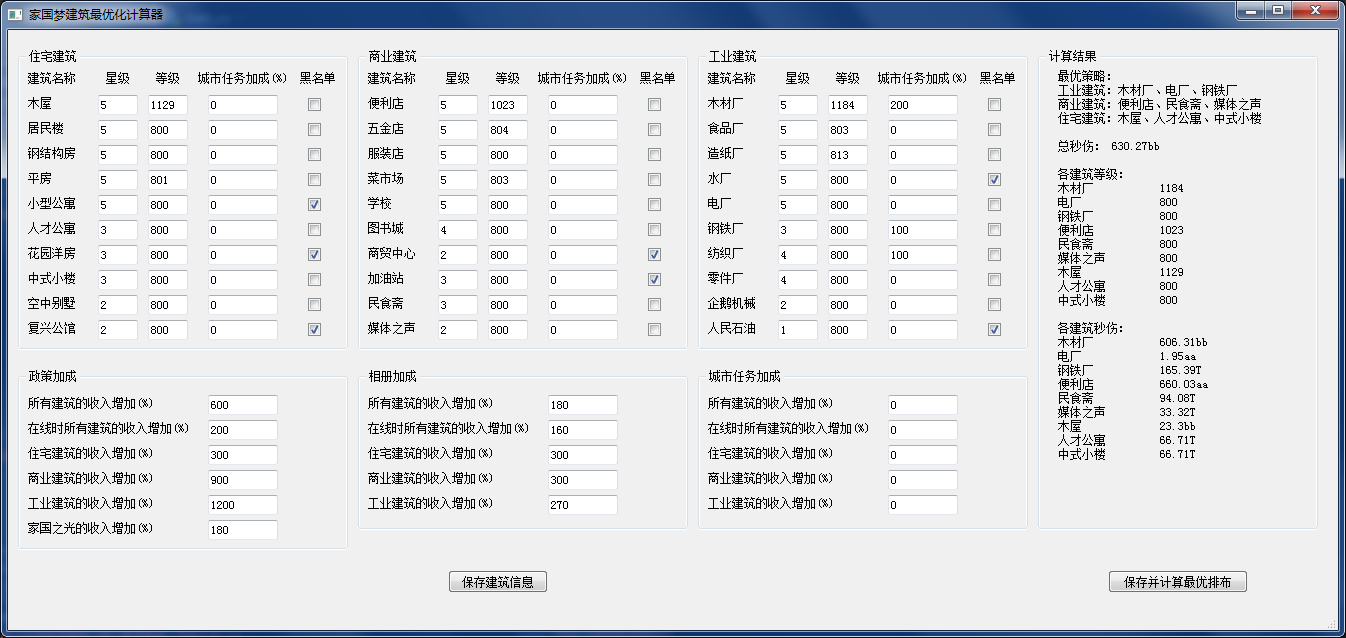
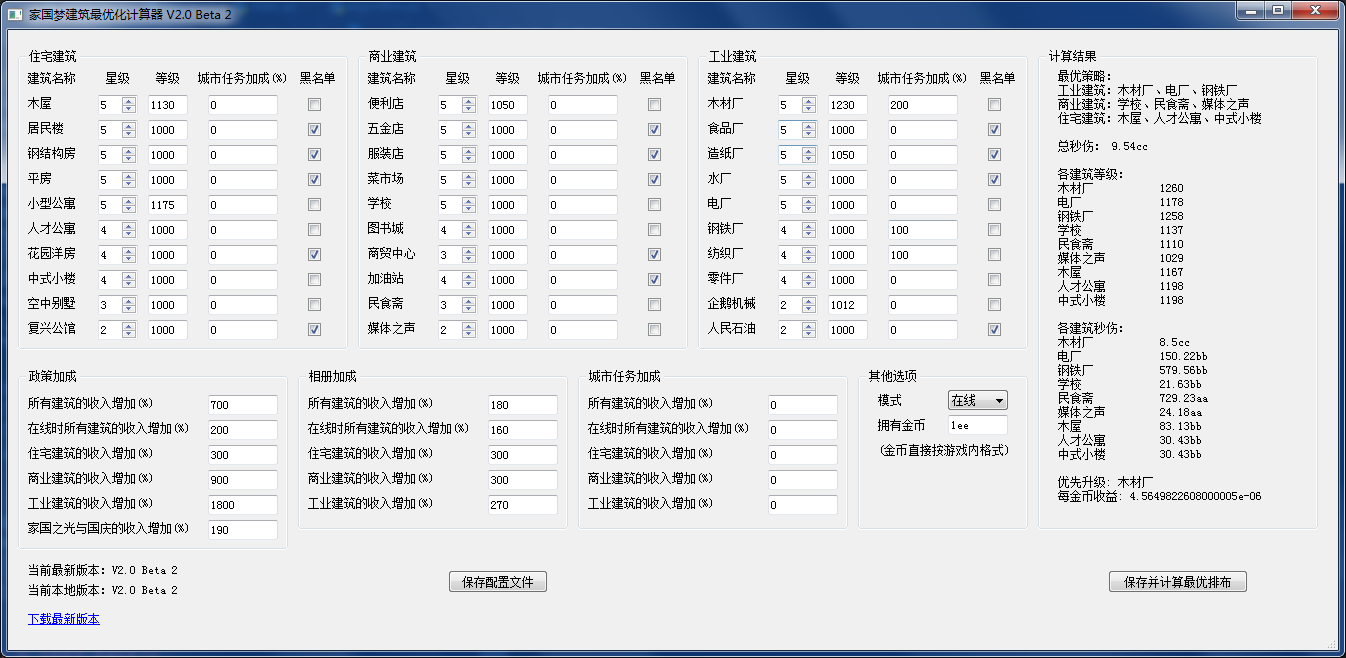
update README
update README

diff --git a/README.md b/README.md
@@ -8,7 +8,7 @@
 ## 功能：
 
 - 按照当前的建筑星级、等级、各项加成枚举计算收益最高的建筑排布
-- 按照现有的金钱余额贪心搜索最佳的升级方案（即将更新）
+- 按照现有的金钱余额贪心搜索**最佳的升级方案（已更新）**
 - 可视化界面随时保存并读取建筑的各项信息以及计算的结果
 
 
@@ -23,13 +23,17 @@
 
 - #### 发布版：
 
-  百度网盘链接：[点击下载](https://pan.baidu.com/s/1DMN2axXw-Pvf-ltf3b9niA)
+  百度网盘链接：[点击下载](https://pan.baidu.com/s/19qKSdBKF7117UqfE9MBWjA)
 
-  提取码：zchw 
+  提取码：228v 
 
   打开**main.exe**即可畅享所有功能
 
-  填入所有建筑的星级、等级以及各项加成，**将未解锁或作用非常小的建筑加入黑名单（建议至少将7个建筑加入黑名单）**，随后点击**保存并计算最优排布**按钮
+  填入所有建筑的星级、等级以及各项加成，**将未解锁或作用非常小的建筑加入黑名单（建议至少将12个建筑加入黑名单）**
+
+  在其他选项中填写现在拥有的金币数量（直接按照游戏内的格式如：23.33aa），如果不想考虑升最佳升级方案，只想知道最优排布，可以填写0
+
+  最后点击**保存并计算最优排布**按钮
 
   
 
@@ -47,7 +51,7 @@
 
 	6. 打开cmd，输入python -V，出现版本号为安装成功
 	
-	7. （安装依赖模块之方法一）在cmd中输入`python -m pip install --user numpy scipy tqdm pandas pyqt5`
+	7. （安装依赖模块之方法一）在cmd中输入`python -m pip install --user numpy tqdm pandas pyqt5`
 	
 	8. （安装依赖模块之方法二）在解压后的源代码文件夹中打开cmd（在顶部导航栏输入cmd即可），然后输入`pip install requirements.txt`
 	
@@ -61,14 +65,18 @@
 
   **界面卡死可能是运算能力不够，请将更多建筑加入黑名单，或者耐心等待**
 
-  默认黑名单下，需要约15-45秒计算时间（取决于电脑的性能）
+  只计算排布，不计算升级方案的情况下：
+
+  默认黑名单需要约15-45秒计算时间（取决于电脑的性能）
 
   黑名单建筑数量达到10个左右时，则只需要约5-15秒计算时间（取决于电脑的性能）
 
+  **如果要计算升级方案，则一定要将黑名单建筑数量增加到12-15个，否则可能半个小时都算不完哦**
+
   所有加成均填写在游戏内实际显示的数值，如游戏内增加200%就填写200%
-
+  
   不需要或未解锁的建筑星级和等级**不要填写成0**，家国之光与国庆100%的buff**加起来**填写在政策加成中
-
+  
   
 
 ## 作者：
@@ -91,7 +99,7 @@
 
 2019.10.3更新：
 
-- Ver 2.0 Beta 2 星级输入修改成SpinBox，界面更新金币和模式框（下版本实装）
+- Ver 2.0 Beta 2 星级输入修改成SpinBox，更新按照现有的金钱余额贪心搜索最佳的升级方案
 - Ver 2.0 Beta 1 增加了黑名单功能，修复了不点击保存直接计算会闪退的bug
 - Ver 1.2 修复了打开后闪退的bug
 - Ver 1.1修复了发布版打不开exe的bug
@@ -99,4 +107,3 @@
 2019.10.2更新：
 
 - Ver 1.0 发布源代码版本
-
